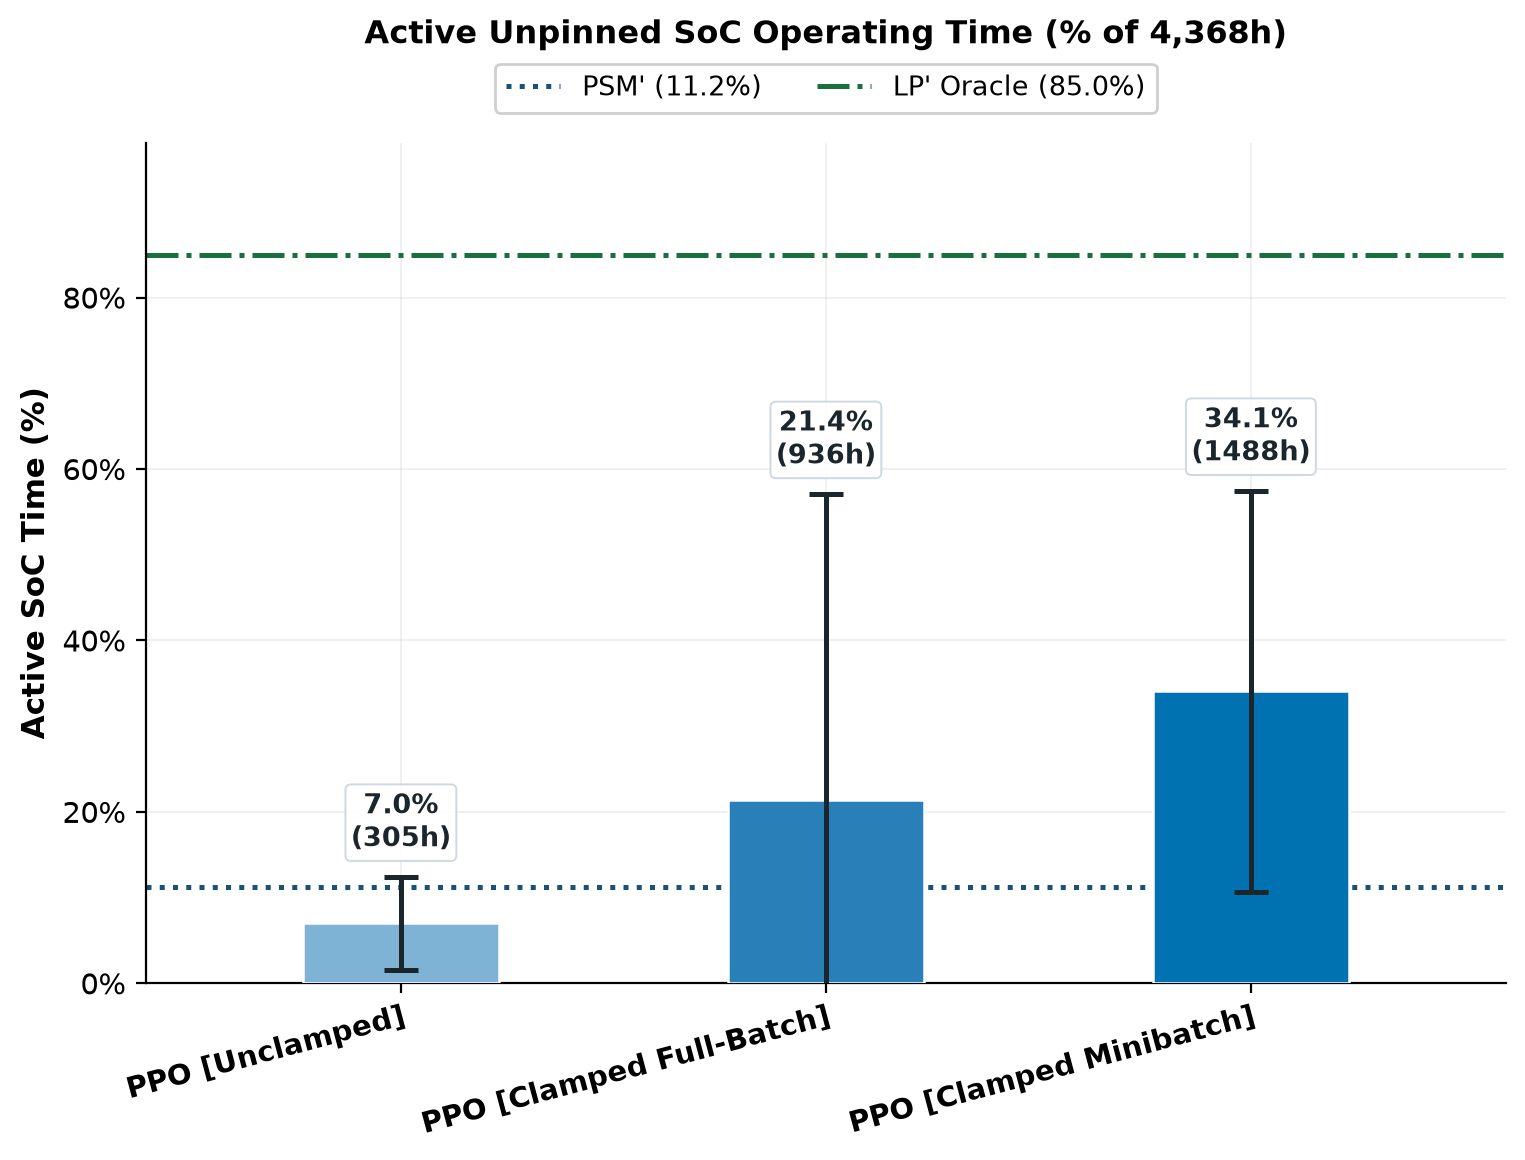
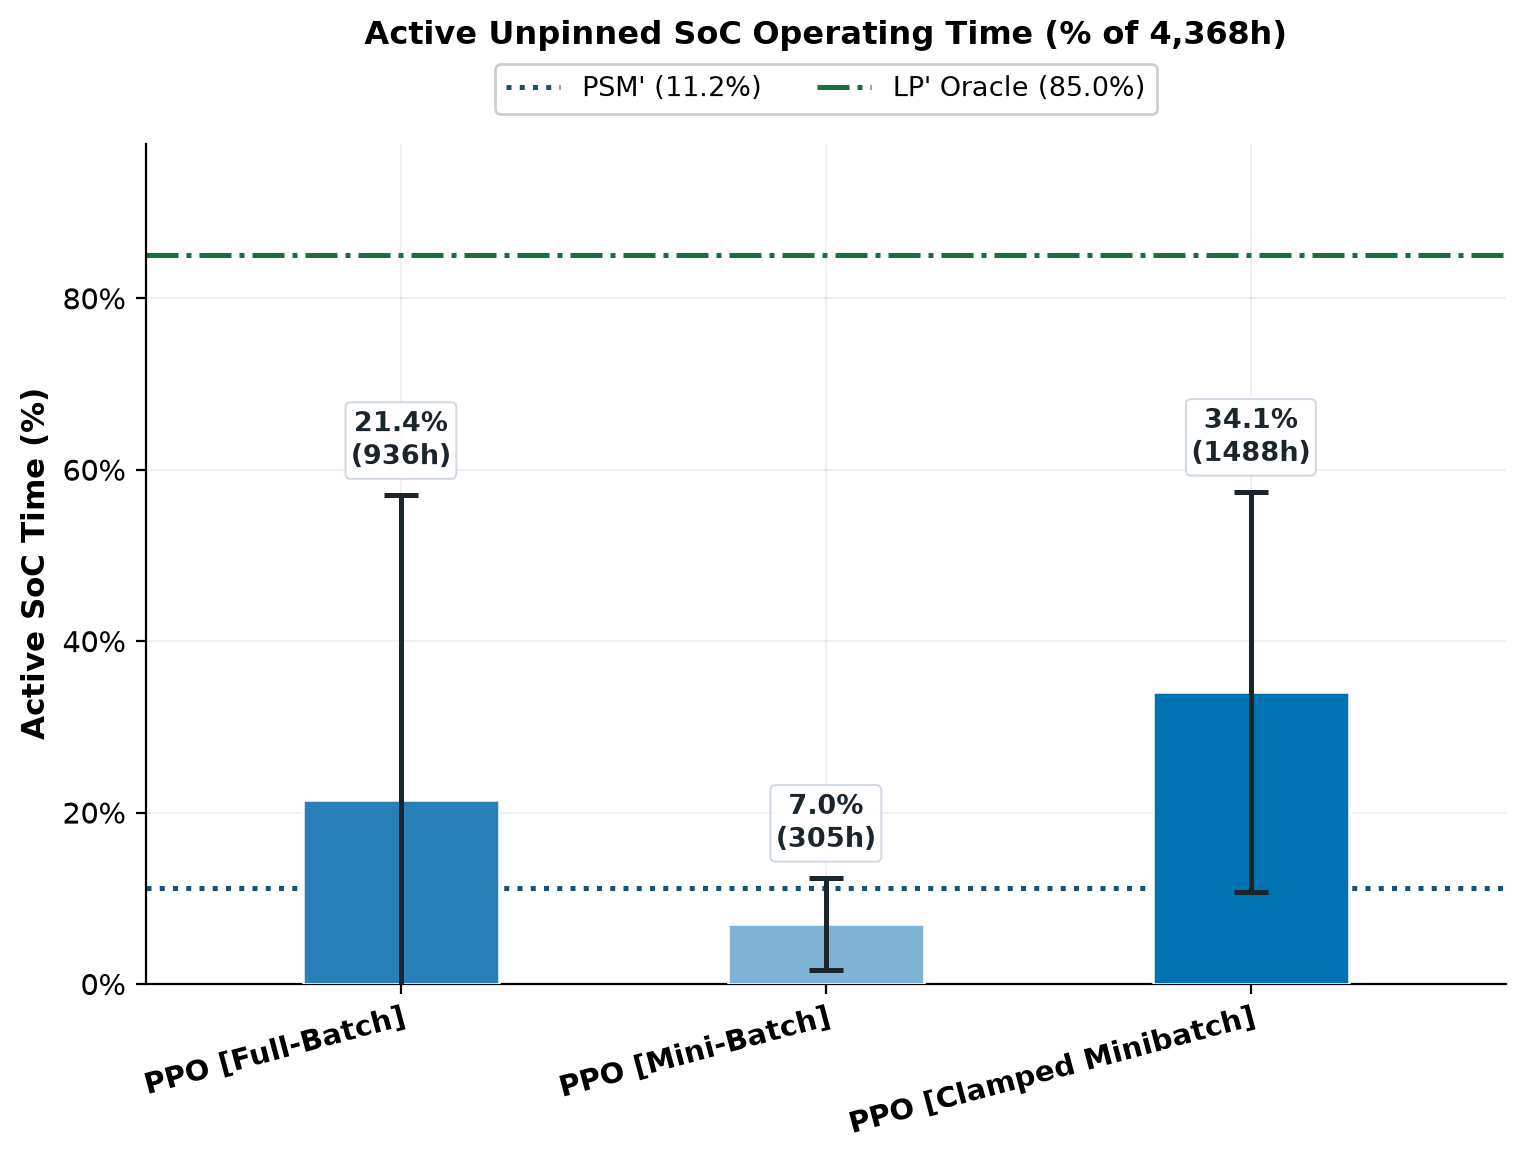
docs(report): reorder Study 1 (batching then clamping) and rename s3_ppo to mini-batch

diff --git a/tools/report/plots.py b/tools/report/plots.py
@@ -195,12 +195,12 @@ def _extract_violation_hours(key, cat, all_families, baselines):
 
 
 # ===========================================================================
-# STUDY 1: CLAMPING & BATCHING ABLATION IN PPO (Validation split)
+# STUDY 1: BATCHING & CLAMPING ABLATION IN PPO (Validation split)
 # ===========================================================================
 
 STUDY1_ITEMS = [
-    ("s3_ppo", "PPO [Unclamped]", "Ablation", PALETTE["PPO_UNC"]),
-    ("clamped_ppo", "PPO [Clamped Full-Batch]", "Ablation", PALETTE["PPO_FB"]),
+    ("clamped_ppo", "PPO [Full-Batch]", "Ablation", PALETTE["PPO_FB"]),
+    ("s3_ppo", "PPO [Mini-Batch]", "Ablation", PALETTE["PPO_UNC"]),
     ("clamped_mb_ppo", "PPO [Clamped Minibatch]", "Ablation", PALETTE["PPO"]),
 ]
 
@@ -273,7 +273,7 @@ def fig_study1_cost(baselines: dict, out_dir: str = None):
         ncol=3, frameon=True, fontsize=9.8
     )
     ax.set_title(
-        "Total Operational Cost Breakdown across PPO Clamping & Batching Variants",
+        "Total Operational Cost Breakdown across PPO Batching & Clamping Variants",
         fontsize=12.0, fontweight="bold", pad=52
     )
 

diff --git a/README.md b/README.md
@@ -249,19 +249,19 @@ To systematically evaluate continuous-action microgrid energy management under c
 
 ---
 
-### Phase 1: PPO Environment & Optimizer Ablation (Clamping, Batching)
+### Phase 1: PPO Optimizer & Environment Ablation (Batching, Clamping)
 
-We evaluate three systematic PPO formulations across 5 independent random seeds on the 26-week Validation Split (H1 2019, 4,368 operating hours):
-- **`unclamped_ppo` (`PPO [Unclamped]`):** Legacy physical simulation where battery charging commands execute without reference to $P_{\text{cap}}$, allowing unmanaged charging to push total site demand over the contractual threshold.
-- **`clamped_ppo` (`PPO [Clamped Full-Batch]`):** Implements an automated physical charging interlock ($`P_{\text{ch}}^{\text{allowed}} = \min(P_{\text{ch}}^{\text{req}}, \max(0, P_{\text{cap}} - P_{\text{net\_served}}))`$) under standard 168-hour full-batch trajectory rollouts.
+We evaluate three systematic PPO formulations across 5 independent random seeds on the 26-week Validation Split (H1 2019, 4,368 operating hours), varying batch size first, then clamping:
+- **`clamped_ppo` (`PPO [Full-Batch]`):** Standard 168-hour full-batch trajectory rollouts ($B=2048$, 10 epochs) with the automated physical charging interlock.
+- **`unclamped_ppo` / `s3_ppo` (`PPO [Mini-Batch]`):** Unclamped baseline formulation without charging constraints.
 - **`clamped_mb_ppo` (`PPO [Clamped Minibatch]`):** Combines the clamped physical environment with minibatch policy optimization (`batch_size=64`, 5 value epochs per rollout) on the base 17-dimensional state space.
 
 #### Phase 1 Empirical Comparison Table (Validation Split, Mean ± SD across 5 Seeds)
 
 | PPO Formulation | Total Cost (€) | Grid Purchases (€) | Battery Wear (€) | Unserved Penalty (€) | Throughput (MWh) | Active SoC (%) | Mean Exceedance (kW) | Violation Hours | Violation Rate (%) |
 |---|---:|---:|---:|---:|---:|---:|---:|---:|---:|
-| **`PPO [Unclamped]`** | 45,513.38 ± 192 | 45,406.63 | 106.75 | 0.00 | 5.34 | 7.0% | 3.35 | 475.4h | 10.9% |
-| **`PPO [Clamped Full-Batch]`** | 45,517.31 ± 198 | 45,390.94 | 126.37 | 0.00 | 6.32 | 21.4% | 3.24 | 466.0h | 10.7% |
+| **`PPO [Full-Batch]`** | 45,517.31 ± 198 | 45,390.94 | 126.37 | 0.00 | 6.32 | 21.4% | 3.24 | 466.0h | 10.7% |
+| **`PPO [Mini-Batch]`** | 45,513.38 ± 192 | 45,406.63 | 106.75 | 0.00 | 5.34 | 7.0% | 3.35 | 475.4h | 10.9% |
 | **`PPO [Clamped Minibatch]` (★ Best PPO)** | **48,760.55 ± 1083** | 45,026.23 | **991.40** | **2,742.92** | **49.57** | **34.1%** | **2.92** | **430.2h** | **9.8%** |
 
 ![PPO Ablation Battery Dynamics](results/figures/battery_dynamics/ppo_ablation_battery_dynamics.png)
